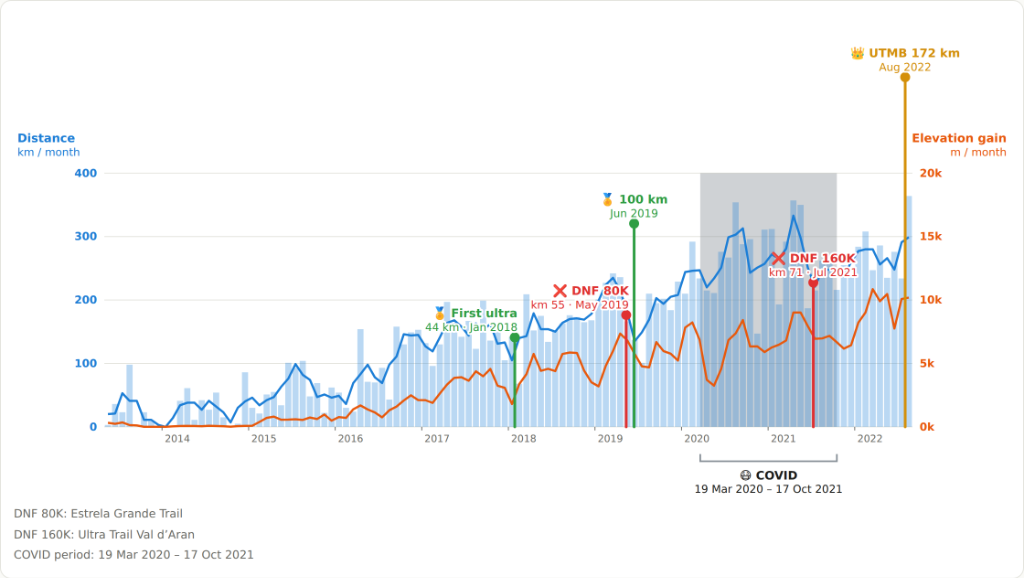
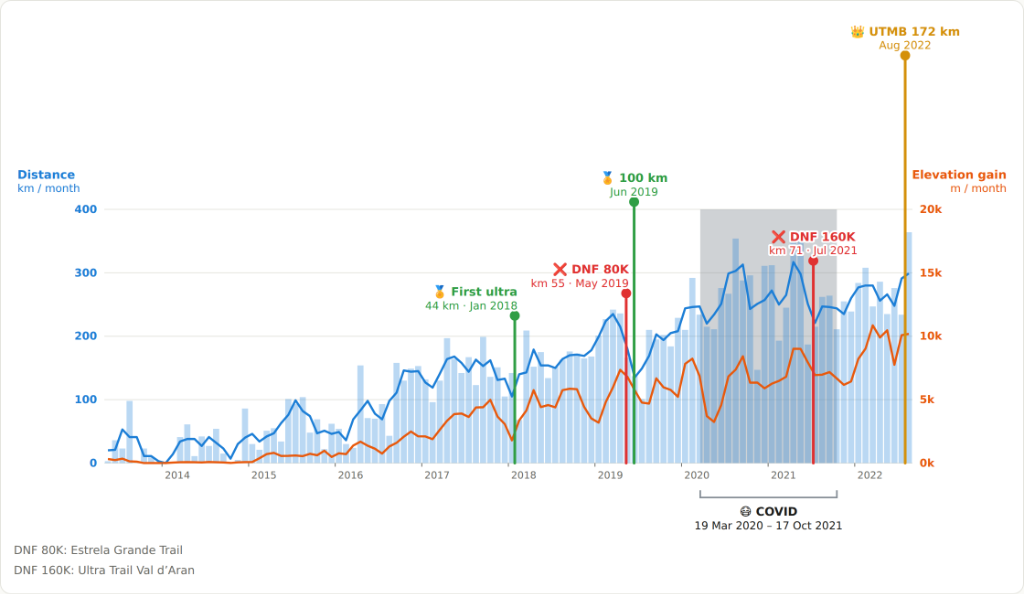
Update milestones timeline chart image in Strava project

diff --git a/strava_utmb.html b/strava_utmb.html
@@ -182,7 +182,7 @@
           </p>
 
           <div class="article-img-box">
-            <img src="images/strava_milestones_timeline.png" alt="Key milestones, DNFs and breakthroughs on the road to UTMB (2013-2022)" />
+            <img src="images/strava_milestones_timeline.png?v=2" alt="Key milestones, DNFs and breakthroughs on the road to UTMB (2013-2022)" />
           </div>
 
           <p>
